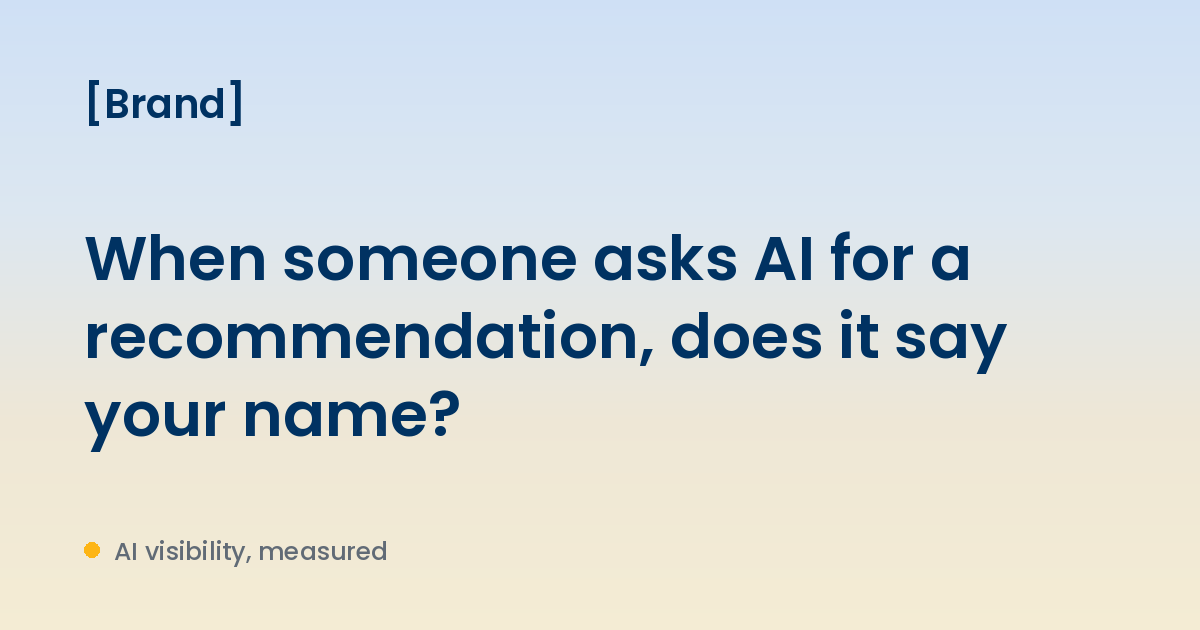
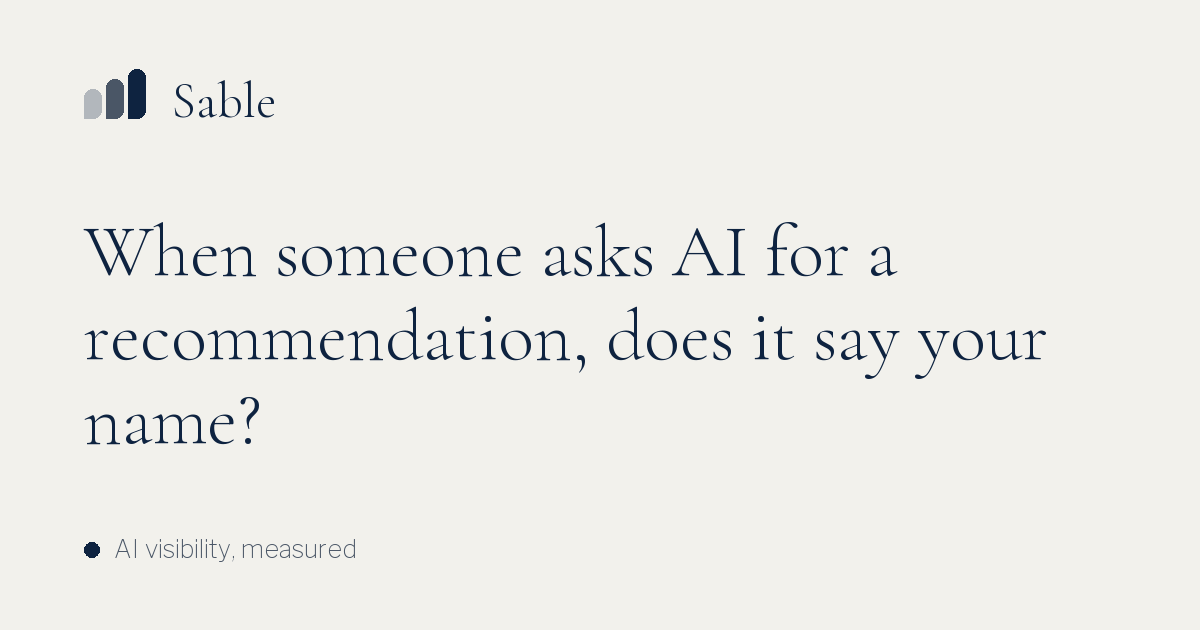
brand: lock the name to Sable, and show the full nav from 768px
Name. BRAND in lib/site.ts goes from the "[Brand]" placeholder to "Sable"
(Josh, 2026-08-02). That is the whole rename: every page title, the header
and footer lockups, the NAP, the JSON-LD entity graph and the metadata
template all read it from there, which is what the single-source-of-truth
invariant was for. No page needed editing.

Two things the rename pulls with it, per CLAUDE.md:

- The brand images are regenerated. app/opengraph-image.png, icon.png and
  favicon.ico were still the weir palette AND still said "[Brand]", so
  every link shared anywhere previewed as a placeholder. They now carry
  the plume mark and "Sable" in Cormorant. make-brand-assets.py also had
  a stale INK_SOFT: it kept the brand sheet's Harbour (#697585) rather
  than the darkened AA value the site ships, and its own comment says to
  keep those in step with globals.css.
- website-plan.md §6 records the decision in the same commit, and marks
  the make-brand-assets item done. The domain and EMAIL are still open,
  and still block NAP and the sending-domain setup.

Nav. The full nav now appears from md (768px) instead of lg (1024px).
The weir header was 78px tall with uppercase, wide-tracked links that
genuinely could not fit below 1024, but these are 12.5px sentence case,
so at 768 the old breakpoint left a half-empty bar with every link hidden
behind a hamburger. The link gap tightens to 18px through the md-lg range
to buy the room and opens back to 30px above it. MobileNav follows to
[…]

diff --git a/components/Header.tsx b/components/Header.tsx
@@ -22,6 +22,14 @@ import { Lockup } from "./Plume";
  * has a flat paper ground, so the header states itself instead.
  *
  * Sticky so the primary CTA is always visible.
+ *
+ * The full nav appears from `md` (768px), not `lg` as the weir header did.
+ * That header was 78px tall with uppercase, wide-tracked links that genuinely
+ * could not fit below 1024; these are 12.5px sentence case, so at 768 the old
+ * breakpoint left a half-empty bar with the links hidden behind a hamburger
+ * for no reason. The gap tightens to 18px in the md–lg range to buy the room
+ * and opens back to 30px above it. If a nav link is ever added, re-check 768
+ * before assuming it still fits.
  */
 export default function Header() {
   return (
@@ -34,7 +42,7 @@ export default function Header() {
 
         <nav
           aria-label="Main"
-          className="ml-auto hidden items-center gap-[30px] lg:flex"
+          className="ml-auto hidden items-center gap-[18px] md:flex lg:gap-[30px]"
         >
           {NAV_LINKS.filter((l) => l.href !== "/").map((link) => (
             <Link
@@ -54,7 +62,7 @@ export default function Header() {
           </Link>
         </nav>
 
-        <div className="ml-auto flex items-center gap-4 lg:hidden">
+        <div className="ml-auto flex items-center gap-4 md:hidden">
           <Link
             href="/free-check/"
             className="btn-pill-invert px-4 py-2.5 text-[10.5px]"

diff --git a/lib/site.ts b/lib/site.ts
@@ -3,7 +3,7 @@
  * When the real brand name / domain / prices land, they change HERE and nowhere else.
  */
 
-export const BRAND = "[Brand]"; // placeholder until the name is picked
+export const BRAND = "Sable"; // locked 2026-08-02 (Josh). Was "[Brand]".
 
 export const DOMAIN = "https://geo-website-sepia.vercel.app"; // interim: Vercel URL — swap when the real domain is bought
 

diff --git a/components/MobileNav.tsx b/components/MobileNav.tsx
@@ -12,7 +12,7 @@ export default function MobileNav() {
   const [open, setOpen] = useState(false);
 
   return (
-    <div className="lg:hidden">
+    <div className="md:hidden">
       <button
         type="button"
         aria-expanded={open}

diff --git a/scripts/make-brand-assets.py b/scripts/make-brand-assets.py
@@ -19,10 +19,9 @@ Both families come from the woff2 files next/font already downloaded into out/,
 so the images use the same typefaces as the site with no font file committed and
 no network fetch. Run `npm run build` first so out/ exists.
 
-RE-RUN REQUIRED after the Berkeley redesign (2026-08-02): the committed PNGs
-still carry the weir palette (Berkeley blue #003262 + California gold) and the
-Poppins footer line. This file is updated; the images are not, because Pillow
-and fontTools are not on this machine's Python. See CLAUDE.md for the venv.
+Regenerated 2026-08-02 for the Berkeley system and the locked brand name.
+Needs Pillow + fontTools, which the system Python does not have: make a venv
+and run `<venv>/bin/python scripts/make-brand-assets.py` after `npm run build`.
 """
 
 import re
@@ -42,7 +41,7 @@ DISPLAY = "Cormorant Garamond"
 
 # Locked design tokens (CLAUDE.md "Design system"). Keep in step with globals.css.
 INK = (14, 35, 64)            # Berkeley Navy #0e2340
-INK_SOFT = (105, 117, 133)    # Harbour #697585
+INK_SOFT = (74, 86, 102)      # Harbour #4a5666 (darkened for AA, see globals.css)
 MIST = (178, 183, 188)        # Mist #b2b7bc
 SKY = (127, 166, 217)         # Sky #7fa6d9 — on navy only
 PAPER = (242, 241, 236)       # Paper #f2f1ec — the flat ground

diff --git a/website-plan.md b/website-plan.md
@@ -9,7 +9,9 @@ never guarantee placement or rankings; report sampled rates, not point-in-time r
 every statistic carries a named source; no "AI domination" language. Honesty is the
 positioning, not just the legal posture.
 
-`[Brand]` = placeholder until you pick a name. `[$X]` = pricing placeholders.
+**Brand name: `Sable`, locked 2026-08-02 (Josh).** It lives in `lib/site.ts`
+as `BRAND`; occurrences of `[Brand]` below are historical and read as Sable.
+`[$X]` = pricing placeholders, still open.
 
 ---
 
@@ -424,11 +426,12 @@ call bookings) so you know where the funnel leaks.
       anyone holding the (public by design) publishable key can POST rows of
       any size straight past the form and its honeypot. Verified still safe
       today: anon SELECT and DELETE both return 401.
-- [ ] **Re-run `scripts/make-brand-assets.py`** after the brand name lands. The
-      OG image and favicon are generated from `BRAND`, so until then every link
-      shared on LinkedIn or Slack previews as "[Brand]". Needs pillow, fonttools
-      and brotli (`python3 -m venv .venv && .venv/bin/pip install pillow
-      fonttools brotli`), and `npm run build` run first so the font is present.
+- [x] **Re-run `scripts/make-brand-assets.py`** — done 2026-08-02 with the name
+      lock and the Berkeley redesign. The OG image and favicon now read "Sable"
+      in Cormorant with the plume mark. Re-run again if the palette or the name
+      moves: needs pillow, fonttools and brotli (`python3 -m venv .venv &&
+      .venv/bin/pip install pillow fonttools brotli`) and `npm run build` first
+      so the woff2 is present.
 - [ ] **Swap `EMAIL` in lib/site.ts** — `/security.txt` publishes it as the
       disclosure contact, and it is still `hello@example.com`.
 - [ ] **SPF, DKIM and DMARC** on the sending domain before the first teaser
@@ -451,8 +454,9 @@ call bookings) so you know where the funnel leaks.
   every canary run mails Abhi a fake lead and spends 1 of the 20 hourly Resend
   sends real leads need. Apply first, enable second. Josh does not need to do
   anything here; it is one paste.
-- Brand name + domain (blocks: logo, NAP, schema, sending-domain setup from the
-  GTM doc — same domain decision). Build with `[Brand]` placeholders meanwhile.
+- ~~Brand name~~ — **decided 2026-08-02: Sable.** Domain is still open and
+  still blocks NAP, the sending-domain setup from the GTM doc, and `DOMAIN` in
+  `lib/site.ts` (an interim Vercel URL today). `EMAIL` is still a placeholder.
 - Pricing numbers for tiers 2 and 3. Build /pricing with `[$X]` placeholders.
 - Which past run becomes the /sample-report content — pick the stored audit/teaser
   with the most vivid story (client absent, competitors named, clear fix list),
